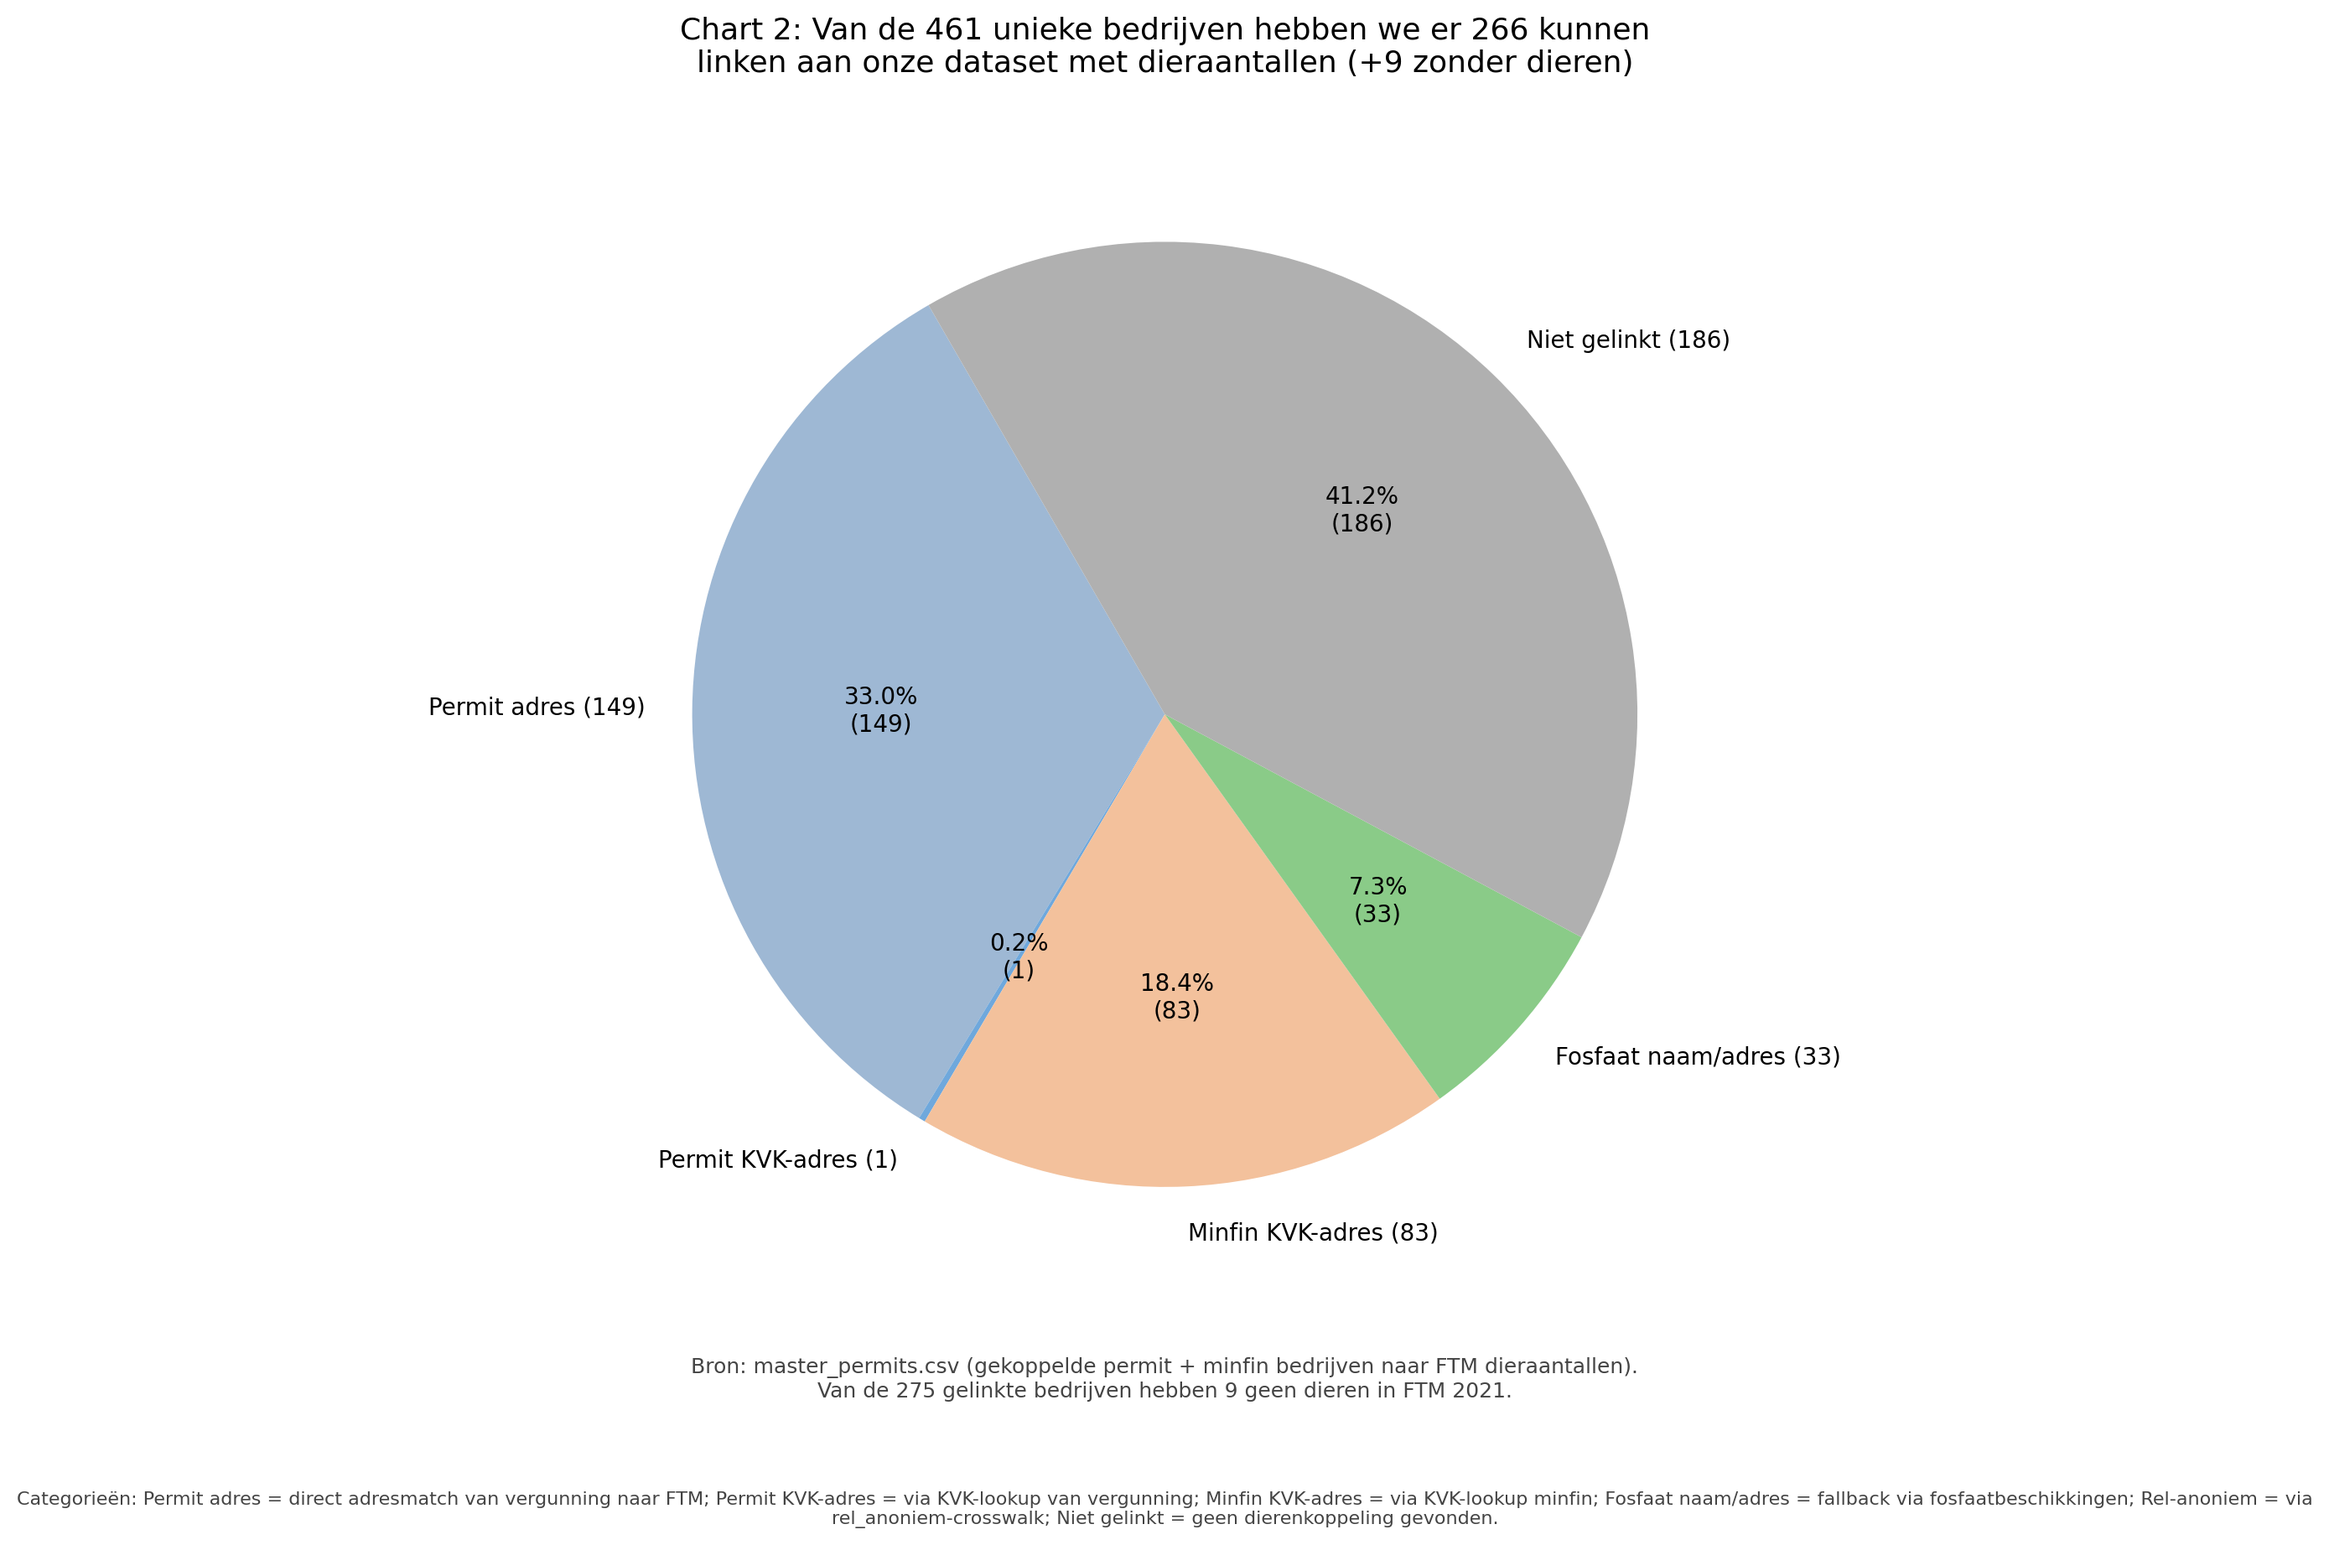
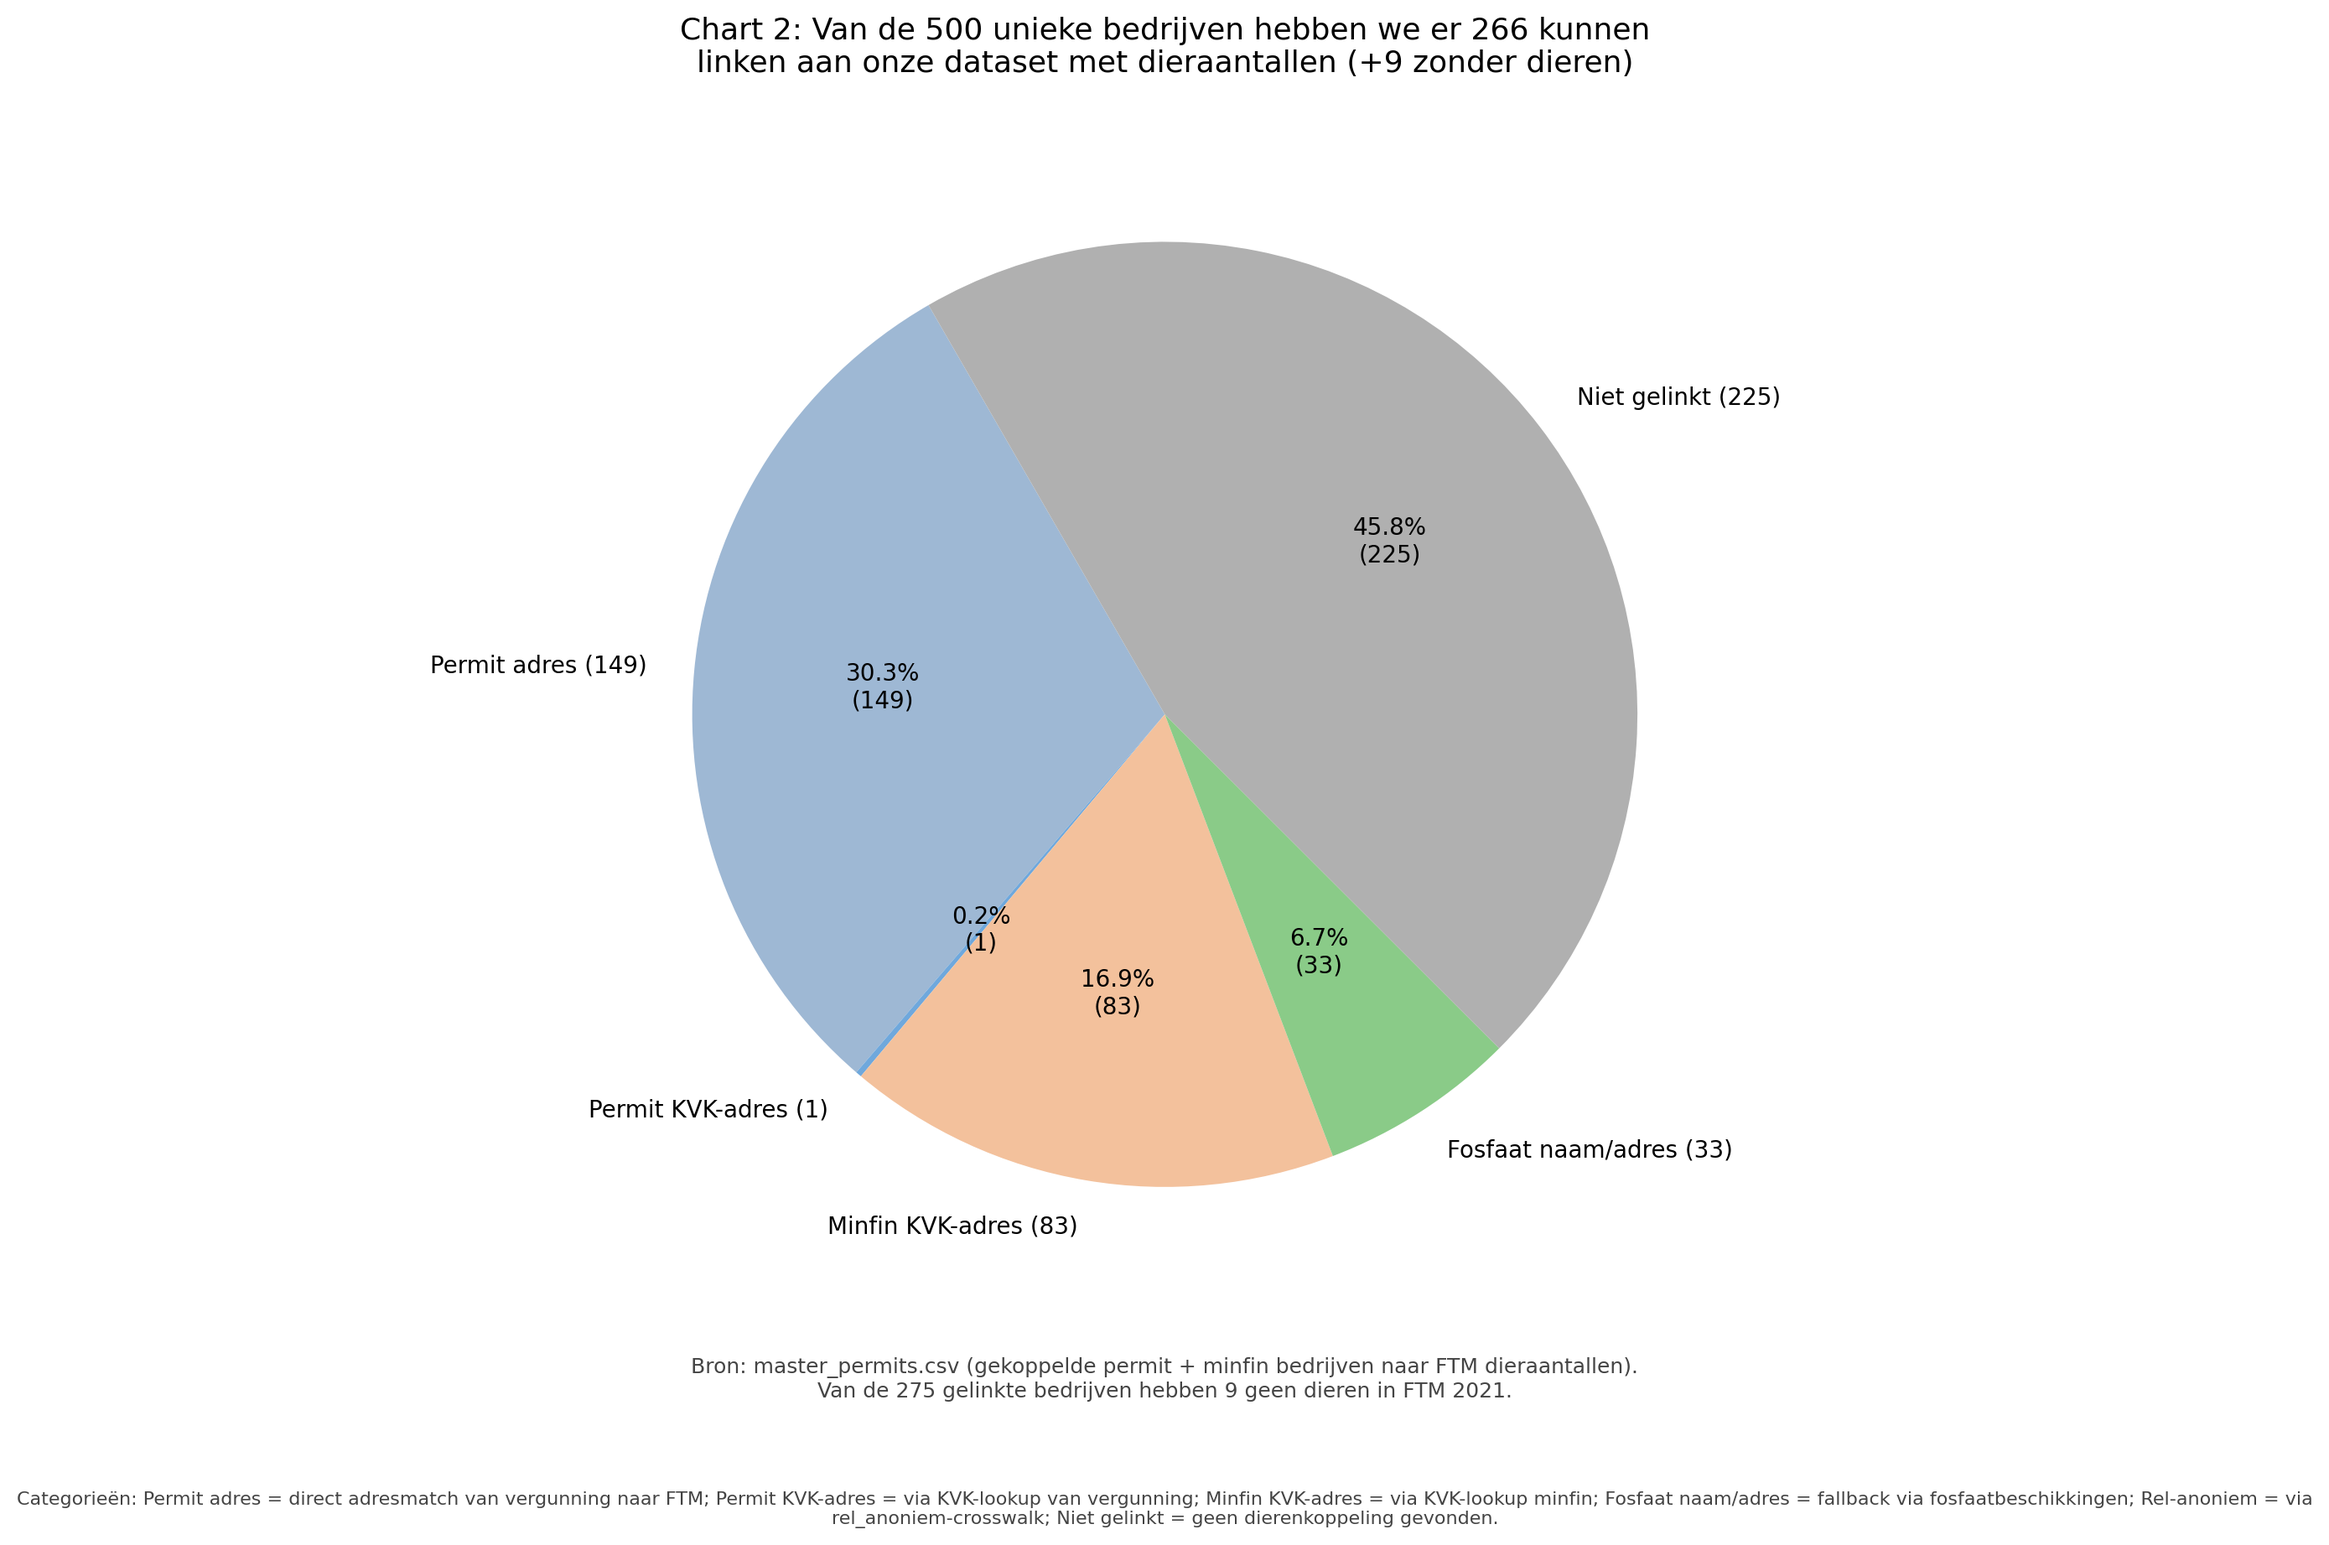
export master participants and update charts

diff --git a/pipelines/matching_ftm/analysis/ftm/14_generate_charts.py b/pipelines/matching_ftm/analysis/ftm/14_generate_charts.py
@@ -42,6 +42,7 @@ CHART_FILES = {
     "definitive_progress": "9_chart_definitive_progress.png",
     "province_known_vs_rvo": "10_chart_known_vs_rvo.png",
     "province_definitive_vs_rvo": "11_chart_definitive_vs_rvo.png",
+    "receipt_elapsed": "12_chart_receipt_elapsed.png",
     "overview": "chart_all.png",
 }
 ALL_CHART_FILENAMES = set(CHART_FILES.values())
@@ -151,6 +152,18 @@ def filter_to_year(df: pd.DataFrame, year: int) -> pd.DataFrame:
     return df[mask]
 
 
+def parse_day_month_year(value: str) -> datetime.date | None:
+    if not value or not isinstance(value, str):
+        return None
+    value = value.strip()
+    for fmt in ("%d-%m-%Y", "%Y-%m-%d"):
+        try:
+            return datetime.datetime.strptime(value, fmt).date()
+        except ValueError:
+            continue
+    return None
+
+
 def annotate_bar_tops(
     ax: plt.Axes,
     bars,
@@ -222,6 +235,24 @@ def compute_source_counts_match(df: pd.DataFrame) -> Tuple[int, int, int, int]:
     overlap = (sources.groupby("farm_id")["source"].nunique() > 1).sum()
     unique_total = sources["farm_id"].nunique()
     return permit_total, minfin_total, overlap, unique_total
+
+
+def compute_receipt_elapsed_days(df: pd.DataFrame, ref_date: datetime.date) -> Tuple[pd.Series, dict]:
+    """Return days since receipt for permit farms with receipt stage, plus summary stats."""
+    receipt = df[(df["source"] == "permit") & (df["stage_latest_llm"] == "receipt_of_application")].copy()
+    receipt = receipt.drop_duplicates(subset=["farm_id"])
+    receipt["parsed_date"] = receipt["Datum_latest"].apply(parse_day_month_year)
+    receipt = receipt[receipt["parsed_date"].notna()].copy()
+    receipt["days_elapsed"] = receipt["parsed_date"].apply(lambda d: (ref_date - d).days)
+    days = receipt["days_elapsed"].astype(int)
+    stats = {
+        "farms_total": int(len(receipt)),
+        "avg_days": float(days.mean()) if not days.empty else 0.0,
+        "min_days": int(days.min()) if not days.empty else 0,
+        "max_days": int(days.max()) if not days.empty else 0,
+        "ref_date": ref_date.isoformat(),
+    }
+    return days, stats
 
 
 def compute_link_methods(df: pd.DataFrame, total_farms: int) -> Tuple[pd.Series, int]:
@@ -1340,6 +1371,49 @@ def plot_chart8_definitive_progress(
     plt.close(fig)
 
 
+def plot_chart_receipt_elapsed(days: pd.Series, stats: dict, output_path: Path) -> None:
+    """Histogram of days since receipt of application for receipt-only permit farms."""
+    output_path.parent.mkdir(parents=True, exist_ok=True)
+    if days.empty:
+        print("[warn] No receipt-only farms with valid dates; skipping receipt chart.")
+        return
+
+    fig, ax = plt.subplots(figsize=STYLE["figsize"])
+    bins = list(range(0, max(days.max(), 1) + 61, 60))
+    if bins[-1] < days.max():
+        bins.append(days.max() + 1)
+    ax.hist(days, bins=bins, color=str(STYLE["color_permit"]), edgecolor="#ffffff", alpha=0.8)
+
+    avg_days = stats.get("avg_days", 0.0)
+    min_days = stats.get("min_days", 0)
+    max_days = stats.get("max_days", 0)
+    farms_total = stats.get("farms_total", 0)
+    ref_date = stats.get("ref_date", "")
+
+    ax.axvline(avg_days, color=str(STYLE["color_definitive"]), linestyle="--", linewidth=2, label="Gemiddelde")
+    ax.set_xlabel("Aantal dagen sinds ontvangst")
+    ax.set_ylabel("Aantal bedrijven")
+    title = (
+        "Chart 12: Voor "
+        + f"{farms_total:,}".replace(",", ".")
+        + " bedrijven met alleen een ontvangstmelding is gemiddeld "
+        + f"{avg_days:.1f}"
+        + " dagen verstreken (min "
+        + f"{min_days}"
+        + ", max "
+        + f"{max_days}"
+        + ")."
+    )
+    ax.set_title(wrap_title(title), fontsize=STYLE["title_fontsize"], pad=float(STYLE["title_pad"]))
+    ax.grid(axis="y", linestyle="--", alpha=0.3)
+    ax.legend(fontsize=STYLE["legend_fontsize"])
+
+    fig.tight_layout()
+    add_subtitle(fig, SUBTITLE_TEXT + f"\nPeildatum: {ref_date}.")
+    fig.savefig(output_path, dpi=200, bbox_inches="tight")
+    plt.close(fig)
+
+
 def combine_charts(charts_dir: Path, output_name: str = "chart_all.png") -> Path:
     """Combine all chart PNGs vertically into one overview image."""
     order_keys = [
@@ -1352,6 +1426,7 @@ def combine_charts(charts_dir: Path, output_name: str = "chart_all.png") -> Path
         "permit_stages",
         "animals_by_stage",
         "definitive_progress",
+        "receipt_elapsed",
     ]
     images = []
     for key in order_keys:
@@ -1416,7 +1491,7 @@ def generate_charts(
     df_raw["has_animals"] = df_raw["farm_id"].isin(farms_with_animals)
 
     # --- Compute all metrics first
-    permit_total, minfin_total, overlap, unique_total = compute_source_counts_match(df_match)
+    permit_total, minfin_total, overlap, unique_total = compute_source_counts_match(df_raw)
     method_counts, total_farms = compute_link_methods(df_match, unique_total)
     linked_total = total_farms - method_counts.get("niet_gelinkt", 0)
     linked_without_animals = max(linked_total - ftm_linked, 0)
@@ -1426,6 +1501,7 @@ def generate_charts(
     stage_link_df = compute_permit_stage_links(df_year)
     stage_counts, stage_farms = compute_stage_animal_counts(df_match, FTM_RAW_ANIMALS, DATA_YEAR)
     total_definitive_farms = df_match[df_match["stage_latest_llm"] == "definitive_decision"]["farm_id"].nunique()
+    receipt_days, receipt_stats = compute_receipt_elapsed_days(df_year, datetime.date.today())
     buyout_df = compute_buyout_share(df_match, FTM_RAW_ANIMALS, DATA_YEAR)
 
     animals_def = int(stage_counts["definitive_decision"].sum())
@@ -1512,6 +1588,10 @@ def generate_charts(
             "animals_total": int(animals_total),
             "pct_participants": float(pct_participants),
             "pct_animals": float(pct_animals),
+        },
+        "chart12": {
+            "receipt_days": receipt_days.tolist(),
+            "receipt_stats": receipt_stats,
         },
         "rvo_comparison": rvo_comp.to_dict(orient="records"),
         "regions": region_data,
@@ -1634,6 +1714,14 @@ def generate_charts(
     plot_province_known_vs_rvo(rvo_comp_loaded, rvo_known_chart)
     if not rvo_comp_loaded.empty:
         print(f"Saved province known vs RVO chart to {rvo_known_chart}.")
+
+    c12 = chart_data.get("chart12", {})
+    receipt_days = pd.Series(c12.get("receipt_days", []))
+    receipt_stats = c12.get("receipt_stats", {})
+    receipt_path = charts_dir / CHART_FILES["receipt_elapsed"]
+    plot_chart_receipt_elapsed(receipt_days, receipt_stats, receipt_path)
+    if not receipt_days.empty:
+        print(f"Saved receipt elapsed chart to {receipt_path}.")
 
     overview_path = combine_charts(charts_dir, CHART_FILES["overview"])
     print(f"Combined overview saved to {overview_path}.")

diff --git a/pipelines/matching_ftm/analysis/ftm/13_export_final_results.py b/pipelines/matching_ftm/analysis/ftm/13_export_final_results.py
@@ -152,7 +152,8 @@ def main() -> None:
     copied = []
 
     # Write a slimmed version of the master CSV with selected columns.
-    df = pd.read_csv(master_path)
+    df_full = pd.read_csv(master_path)
+    df = df_full.copy()
     # Filter to target year to align with charts
     year_cols = [c for c in ("gem_jaar", "jaar") if c in df.columns]
     if year_cols:
@@ -256,6 +257,8 @@ def main() -> None:
 
     df["combined_address"] = df.apply(collect_addresses, axis=1)
     df["matched_address"] = df.apply(matched_address, axis=1)
+    df_full["combined_address"] = df_full.apply(collect_addresses, axis=1)
+    df_full["matched_address"] = df_full.apply(matched_address, axis=1)
 
     # Combined company names across all relevant columns.
     def collect_names(row) -> str:
@@ -276,6 +279,7 @@ def main() -> None:
         names = dedup_preserve(cleaned)
         return " | ".join(names)
 
+    df_full["combined_company_names"] = df_full.apply(collect_names, axis=1)
     df["combined_company_names"] = df.apply(collect_names, axis=1)
 
     # Combined KVK numbers across known sources (permit/minfin/fosfaat/KVK API).
@@ -295,68 +299,40 @@ def main() -> None:
         cleaned = dedup_preserve(cleaned)
         return " | ".join(cleaned)
 
+    df_full["combined_kvk_numbers"] = df_full.apply(collect_kvk, axis=1)
     df["combined_kvk_numbers"] = df.apply(collect_kvk, axis=1)
 
-    keep_cols = [c for c in args.keep_cols if c in df.columns]
-    # Drop duplicate columns in keep order
-    seen = set()
-    dedup_keep_cols = []
-    for c in keep_cols:
-        if c not in seen:
-            seen.add(c)
-            dedup_keep_cols.append(c)
-    keep_cols = dedup_keep_cols
-    if keep_cols:
-        df = df[keep_cols]
-    slim_path = dated_dir / f"{EXPORT_STEM}_{date_tag}.csv"
     dated_dir.mkdir(parents=True, exist_ok=True)
-    df.to_csv(slim_path, index=False)
-    copied.append(slim_path)
-
-    # Aggregated (unique farms) export: collapse per farm/category to avoid source duplicates.
-    agg_cols = ["farm_id", "rel_anoniem", "UBN", "source", "link_method", "combined_company_names", "combined_kvk_numbers", "matched_address", "combined_address"]
-    numeric_cols = ["gem_aantal_dieren"]
-    cat_cols = ["rav_code", "Huisvesting", "category"]
-
-    # Recompute category for aggregation
-    df["rav_code"] = df["rav_code"].astype(str).str.upper()
-    df["rav_code"] = df["rav_code"].astype(str).str.upper()
-    df["category"] = df["rav_code"].map(
-        lambda c: "vleeskalveren"
-        if c.startswith("A4")
-        else (
-            "rundvee (excl. kalveren)"
-            if c.startswith("A")
-            else ("varkens" if c.startswith("D") else ("kippen" if c.startswith("E") else ("kalkoenen" if c.startswith("F") else ("geiten" if c.startswith("C") else ""))))
-        )
-    )
-    df["gem_aantal_dieren"] = pd.to_numeric(df["gem_aantal_dieren"], errors="coerce")
-    df = df.dropna(subset=["gem_aantal_dieren"])
-    df = df[df["gem_aantal_dieren"] > 0]
-    agg = (
-        df.groupby(["farm_id", "category"], as_index=False)
-        .agg(
-            {
-                "gem_aantal_dieren": "sum",
-                "rel_anoniem": lambda x: " | ".join(sorted(set(str(v) for v in x if pd.notna(v)))),
-                "UBN": lambda x: " | ".join(sorted(set(str(v) for v in x if pd.notna(v)))),
-                "source": lambda x: " | ".join(sorted(set(str(v) for v in x if pd.notna(v)))),
-                "link_method": lambda x: " | ".join(sorted(set(str(v) for v in x if pd.notna(v)))),
-                "combined_company_names": lambda x: " | ".join(sorted(set(str(v) for v in x if pd.notna(v)))),
-                "combined_kvk_numbers": lambda x: " | ".join(sorted(set(str(v) for v in x if pd.notna(v)))),
-                "matched_address": lambda x: " | ".join(sorted(set(str(v) for v in x if pd.notna(v)))),
-                "combined_address": lambda x: " | ".join(sorted(set(str(v) for v in x if pd.notna(v)))),
-            }
-        )
-    )
-    agg_path = dated_dir / f"{EXPORT_AGG_STEM}_{date_tag}.csv"
-    agg.to_csv(agg_path, index=False)
-    copied.append(agg_path)
+    master_copy = dated_dir / "master_participants.csv"
+    shutil.copy2(master_path, master_copy)
+    copied.append(master_copy)
 
     if overview_pdf.exists():
         copied.append(copy_with_date(overview_pdf, dated_dir, "charts_overview", date_tag))
     if overview_png.exists():
         copied.append(copy_with_date(overview_png, dated_dir, "chart_all", date_tag))
+
+    # One-row-per-farm export (no animal filtering).
+    farm_agg = {
+        "rel_anoniem": lambda x: " | ".join(sorted(set(str(v) for v in x if pd.notna(v)))),
+        "source": lambda x: " | ".join(sorted(set(str(v) for v in x if pd.notna(v)))),
+        "link_method": lambda x: " | ".join(sorted(set(str(v) for v in x if pd.notna(v)))),
+        "combined_company_names": lambda x: " | ".join(sorted(set(str(v) for v in x if pd.notna(v)))),
+        "combined_kvk_numbers": lambda x: " | ".join(sorted(set(str(v) for v in x if pd.notna(v)))),
+        "matched_address": lambda x: " | ".join(sorted(set(str(v) for v in x if pd.notna(v)))),
+        "combined_address": lambda x: " | ".join(sorted(set(str(v) for v in x if pd.notna(v)))),
+        "stage_latest_llm": lambda x: " | ".join(sorted(set(str(v) for v in x if pd.notna(v)))),
+        "Datum_latest": "first",
+        "Instantie_latest": "first",
+        "URL_BEKENDMAKING": "first",
+        "URL_PDF": "first",
+    }
+    farm_agg = {k: v for k, v in farm_agg.items() if k in df.columns}
+    if farm_agg:
+        farm_view = df_full.groupby("farm_id", as_index=False).agg(farm_agg)
+        farm_out = dated_dir / "master_participants_one_row.csv"
+        farm_view.to_csv(farm_out, index=False)
+        copied.append(farm_out)
 
     print(f"[info] Exported {len(copied)} file(s) to {dated_dir}:")
     for path in copied:
